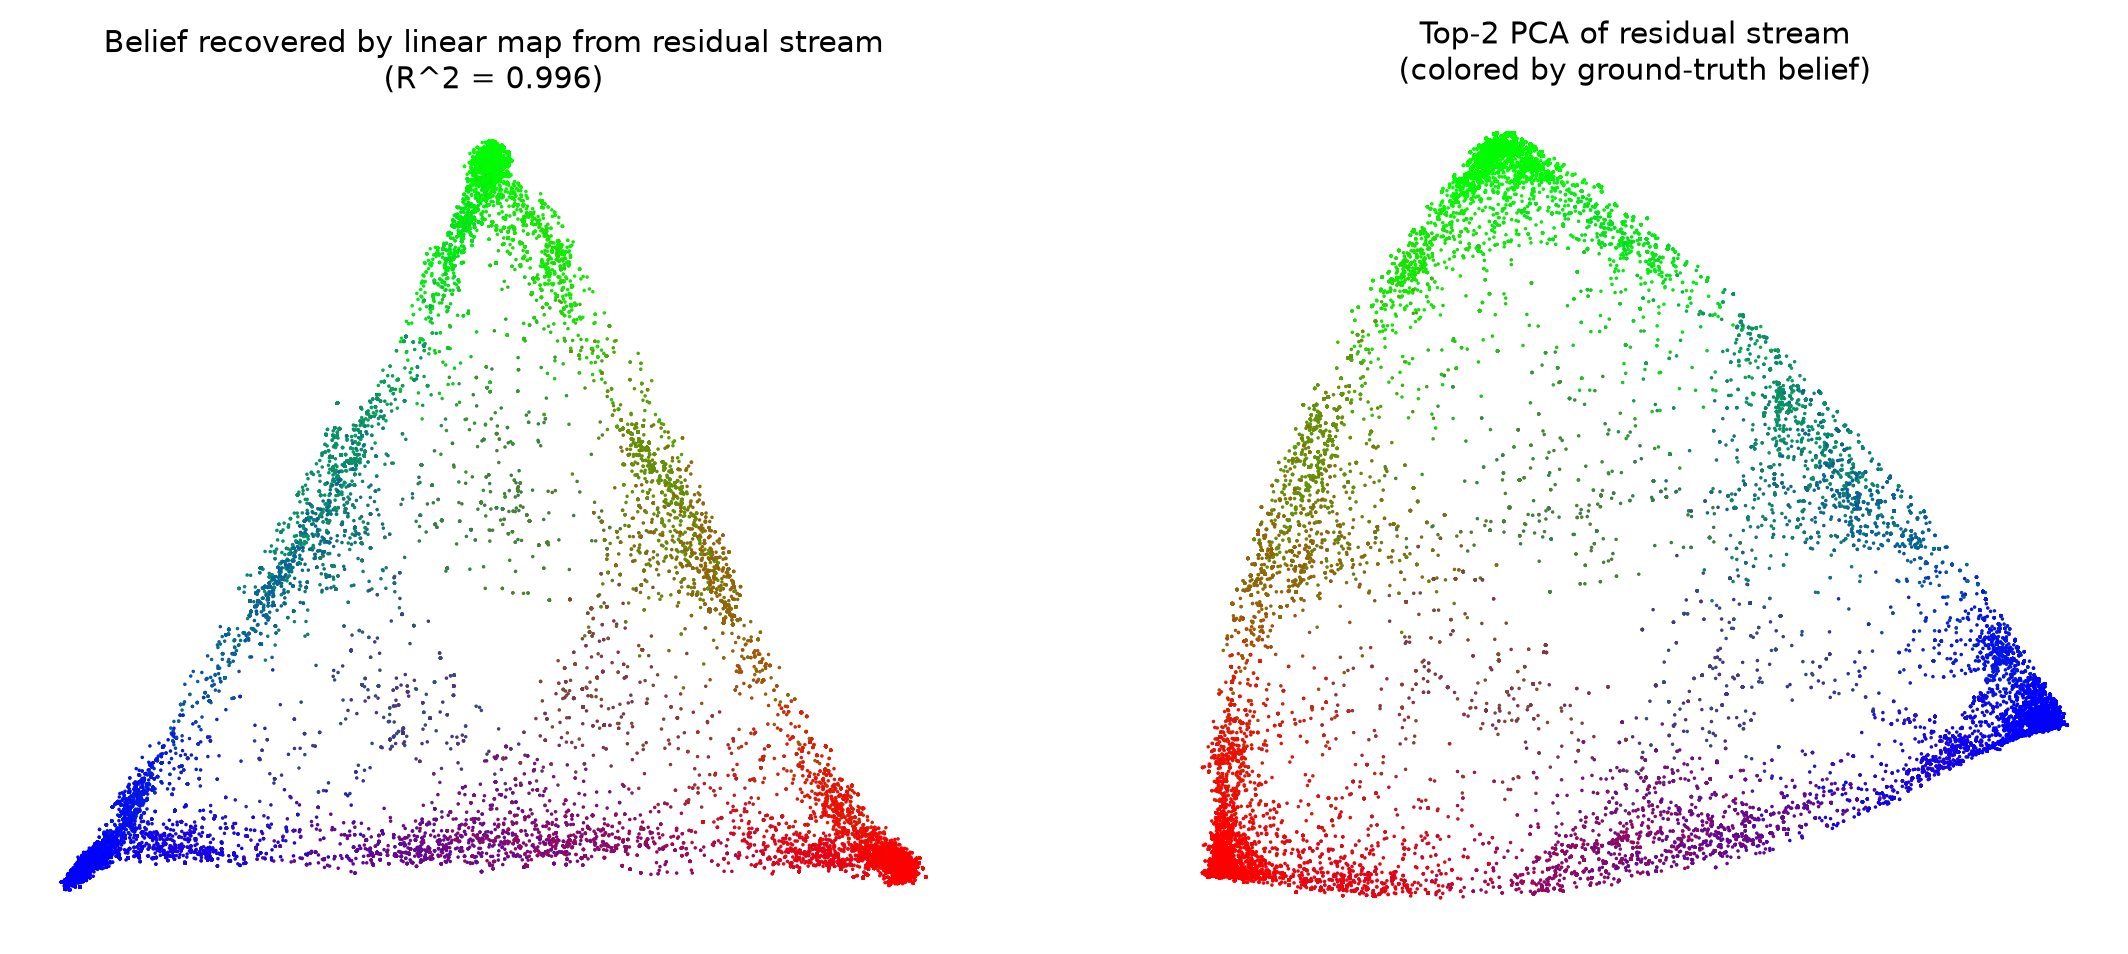
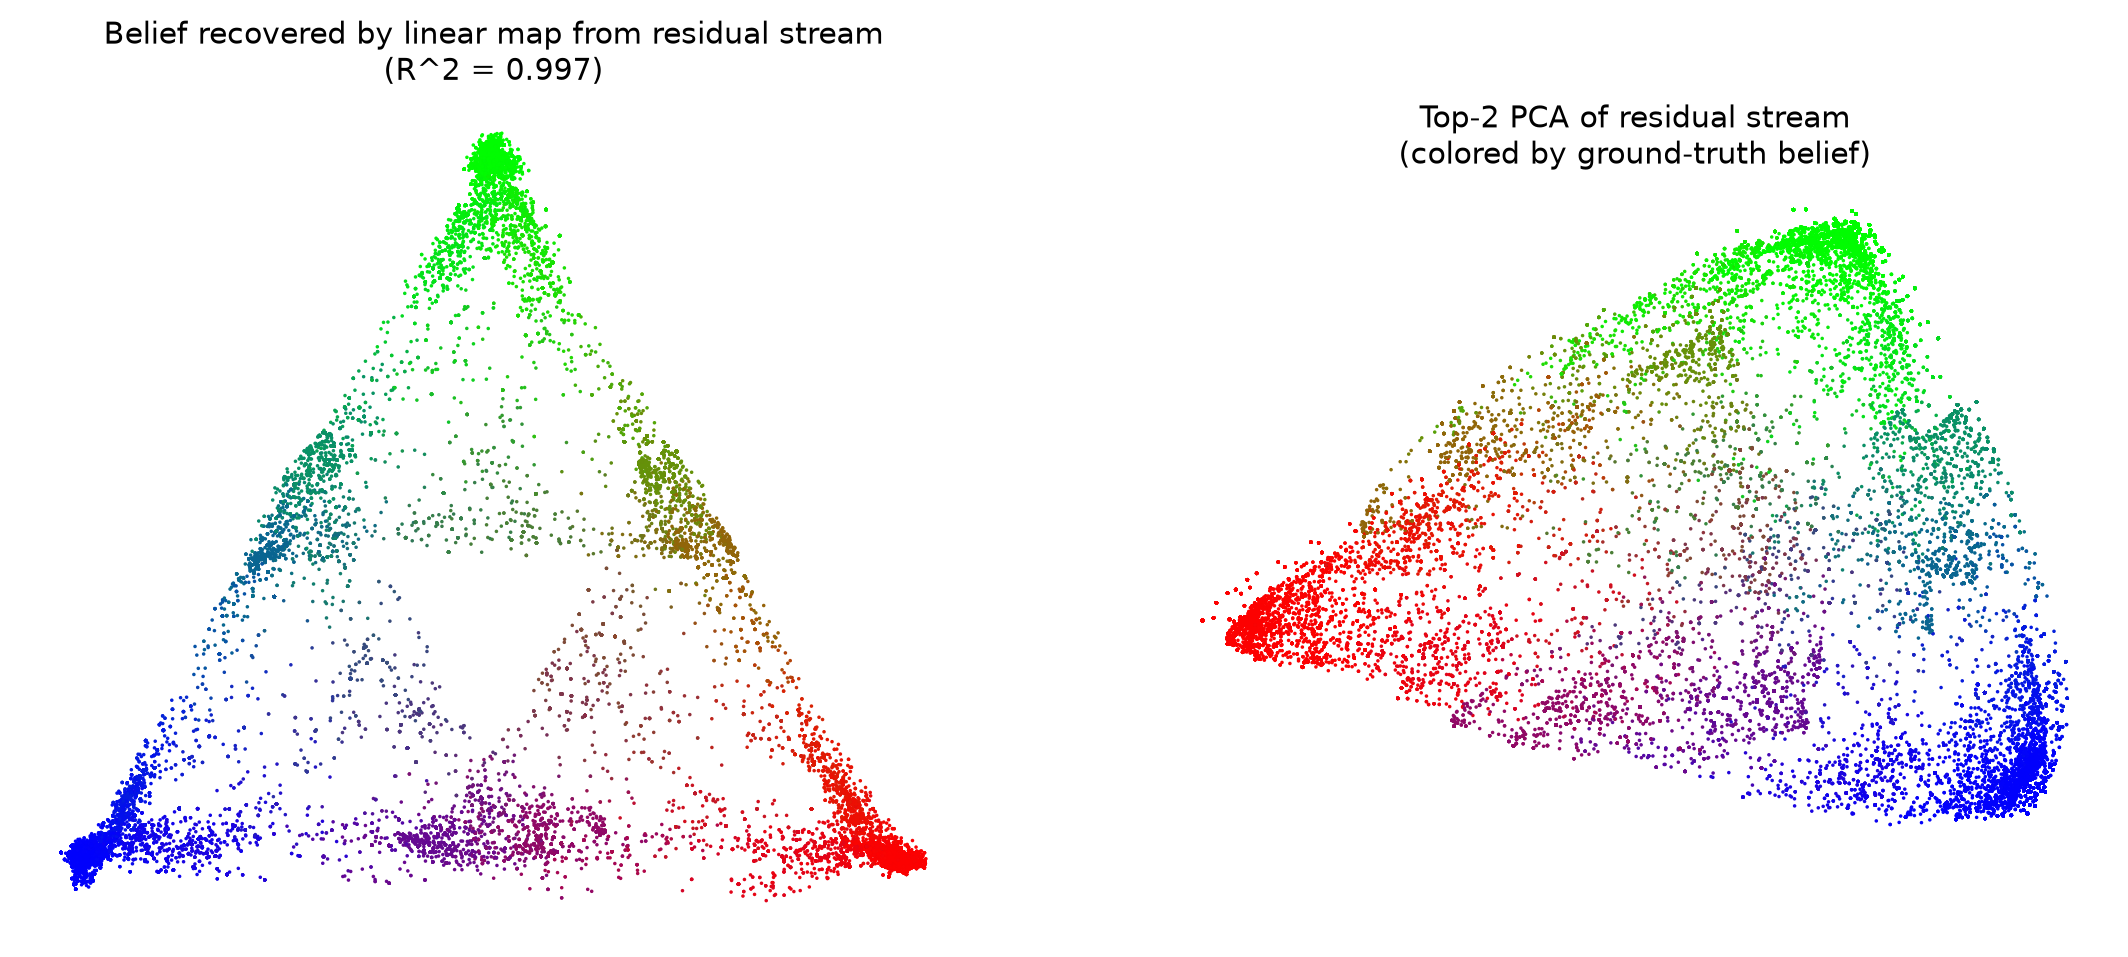
Make analysis scripts device-agnostic; add local CPU plotting
The fig*/oom scripts rebuilt the model from the checkpoint's cfg, which
pins device=cuda from training, so they crashed on a CPU-only machine.
Stamp the local device onto cfg before building. Enables regenerating all
figures locally (CPU venv) without a GPU. Figures regenerated from the
current checkpoint; .gitignore now excludes the local .venv.

Changed region(s): [[0.5583, 0.0304, 0.9925, 0.9423], [0.031, 0.1216, 0.4342, 0.9423], [0.031, 0.0304, 0.4342, 0.0912]]

diff --git a/reproduction/unsupervised_belief_oom.py b/reproduction/unsupervised_belief_oom.py
@@ -69,7 +69,9 @@ FIG_DIR = OUT_DIR / "figures"
 # --------------------------------------------------------------------------- #
 def load_model(device):
     ckpt = torch.load(MODEL_DIR / "mess3_transformer.pt", map_location=device, weights_only=False)
-    model = HookedTransformer(HookedTransformerConfig.from_dict(ckpt["cfg"]))
+    cfg = HookedTransformerConfig.from_dict(ckpt["cfg"])
+    cfg.device = device  # checkpoint was trained on cuda; honor the local device (e.g. cpu)
+    model = HookedTransformer(cfg)
     model.load_state_dict(ckpt["state_dict"])
     model.to(device).eval()
     return model, ckpt["context_len"]

diff --git a/reproduction/fig03c_pca_improved.py b/reproduction/fig03c_pca_improved.py
@@ -42,7 +42,9 @@ def simplex_to_xy(beliefs: np.ndarray) -> np.ndarray:
 
 def load_model(device):
     ckpt = torch.load(MODEL_DIR / "mess3_transformer.pt", map_location=device, weights_only=False)
-    model = HookedTransformer(HookedTransformerConfig.from_dict(ckpt["cfg"]))
+    cfg = HookedTransformerConfig.from_dict(ckpt["cfg"])
+    cfg.device = device  # checkpoint was trained on cuda; honor the local device (e.g. cpu)
+    model = HookedTransformer(cfg)
     model.load_state_dict(ckpt["state_dict"])
     model.to(device).eval()
     return model, ckpt["context_len"]

diff --git a/reproduction/fig03_residual_belief_geometry.py b/reproduction/fig03_residual_belief_geometry.py
@@ -50,6 +50,7 @@ def simplex_to_xy(beliefs: np.ndarray) -> np.ndarray:
 def load_model(device: str) -> tuple[HookedTransformer, int]:
     ckpt = torch.load(MODEL_DIR / "mess3_transformer.pt", map_location=device, weights_only=False)
     cfg = HookedTransformerConfig.from_dict(ckpt["cfg"])
+    cfg.device = device  # checkpoint was trained on cuda; honor the local device (e.g. cpu)
     model = HookedTransformer(cfg)
     model.load_state_dict(ckpt["state_dict"])
     model.to(device).eval()

diff --git a/reproduction/fig03b_residual_belief_enumerated.py b/reproduction/fig03b_residual_belief_enumerated.py
@@ -39,6 +39,7 @@ def simplex_to_xy(beliefs: np.ndarray) -> np.ndarray:
 def load_model(device: str):
     ckpt = torch.load(MODEL_DIR / "mess3_transformer.pt", map_location=device, weights_only=False)
     cfg = HookedTransformerConfig.from_dict(ckpt["cfg"])
+    cfg.device = device  # checkpoint was trained on cuda; honor the local device (e.g. cpu)
     model = HookedTransformer(cfg)
     model.load_state_dict(ckpt["state_dict"])
     model.to(device).eval()
